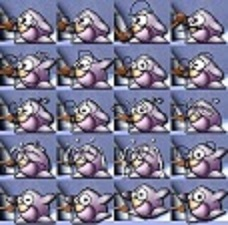
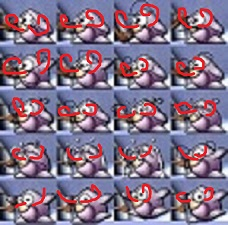
Grafische Änderungen von Smiley auf Hintergrund Pinguin am Abschuss

diff --git a/SplashScreen.java b/SplashScreen.java
@@ -96,9 +96,9 @@ public class SplashScreen extends GameScreen
 		
 		penguinEyes = new ImageSprite(new Rectangle(370, 280, 19, 9), media.loadImage("close_eyes.gif"));
 		
-		String message = "| Hallo, wie geht es dir?
-		message += "  }  "Änderungen von Samuel";
-		message += "  ]  Guter Sound";
+		String message = "| Hallo, wie geht es dir?"
+		message += " Änderungen von Samuel";
+		message += "  ""]  Guter Sound";
 		message += "  \\ SPECIAL THANKS to Benoit dien for his help & to my wife for her patience";
 		message += "    PLEASE VISIT THE FROZEN BUBBLE OFFICIAL WEB SITE AT HTTP://WWW.FROZEN-BUBBLE.ORG  ";
 		
